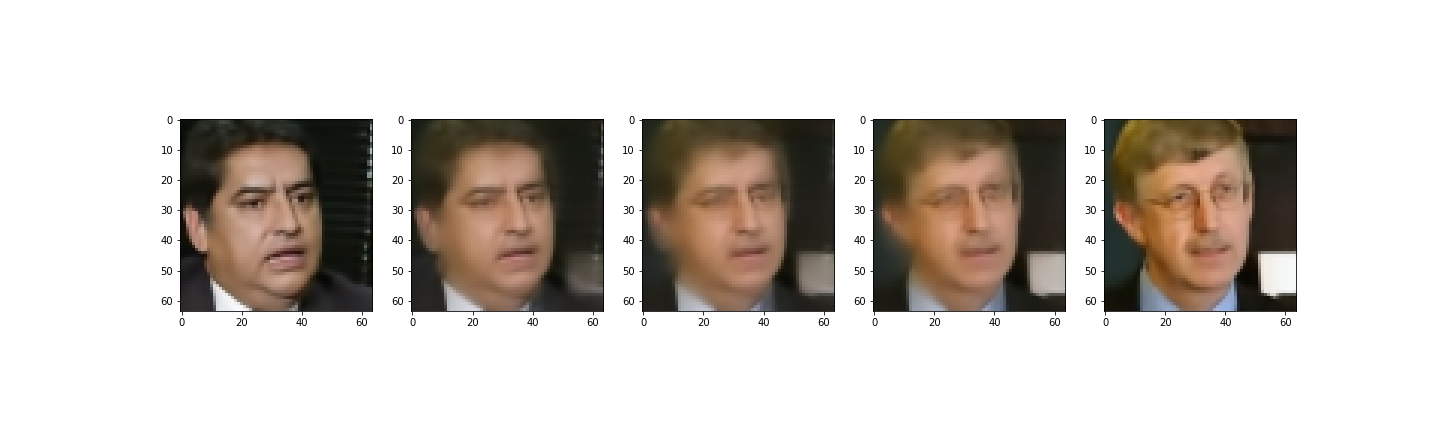
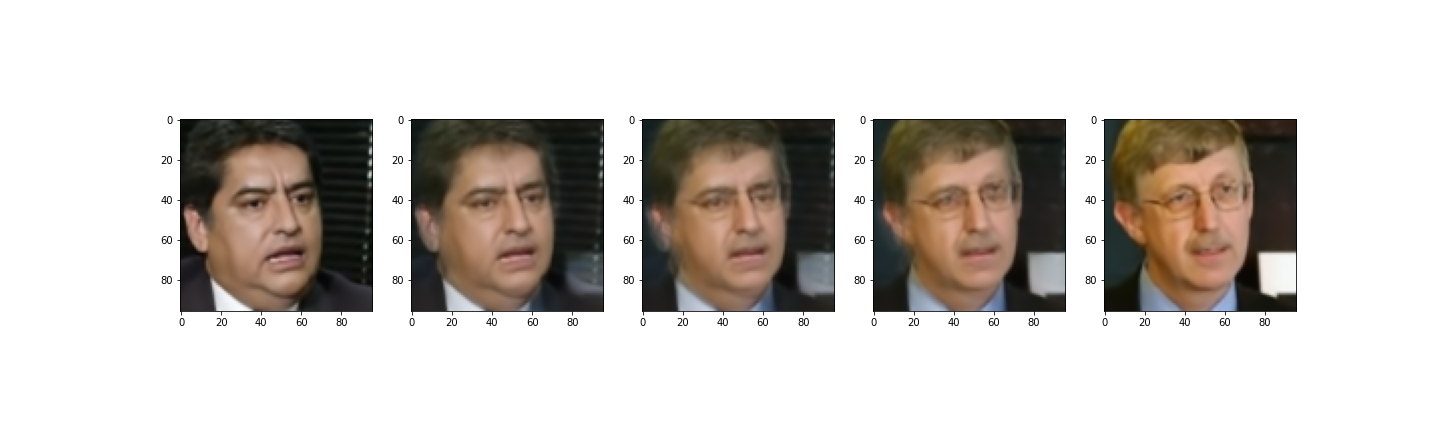
Updated some parameters, switched to 96x96 imgs

diff --git a/README.md b/README.md
@@ -12,11 +12,13 @@ Features and Limitations:
 * ✓ Written in Tensorflow 2.3, Python 3.8.2
 * ✓ Dynamic multi-scale, multi-group, multi-cell architecture ✓
 * ✓ Spectral Normalization via tensorflow_addons ✓
-* ✓ Adaptive Group Sizes
-* ✓ Added the ability to blend two images by merging their sampled p(z|z<l)
+* ✓ Adaptive Group Sizes ✓
+* ✓ Added the ability to blend two images by merging their sampled p(z|z<l) ✓
 * ✗ Residual normal distribution (not implemented) ✗ 
 * ✗ Normalizing flows (not implemented) ✗ 
-* ✗ Sampling doesn't work quite right, yet
+* ✗ Sampling doesn't work quite right, yet ✗ 
+
+Models were trained with a GTX 970 w/ 4GB of GPU RAM. 
 
 ### Reconstruction of 64x64 face images passing through NVAE
 Only minimal degradation of images going back and forth through both sides (encoder & decoder)
